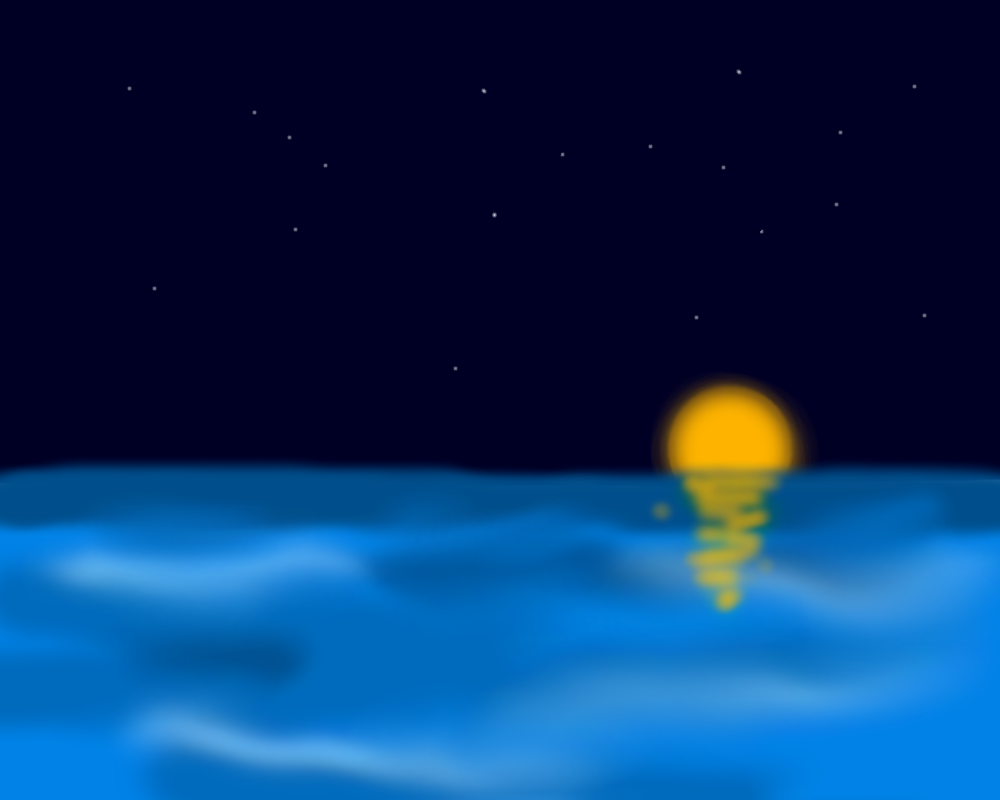
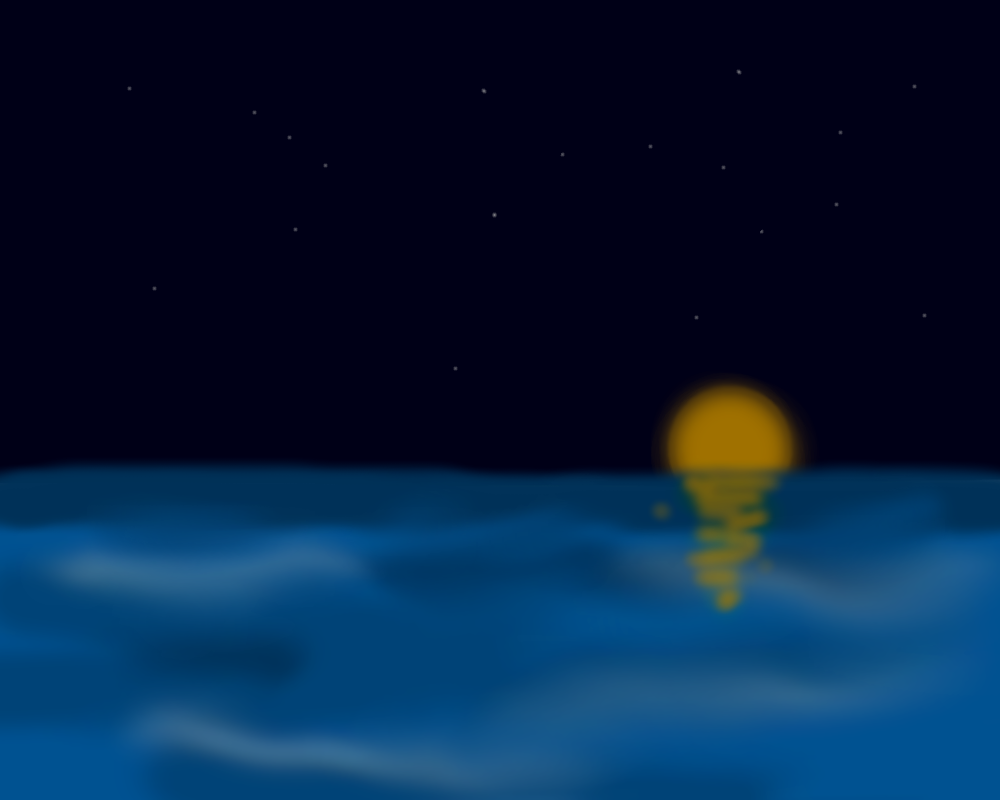
added blind level

diff --git a/start.js b/start.js
@@ -8,7 +8,7 @@ var j = 0;
 var keys = [];
 var metampsy = 0;
 var imgFond = new Image();
-imgFond.src = "images/fond4.png";
+imgFond.src = "images/fond3.png";
 var imgFeu = new Image();
 imgFeu.src = "images/feu.png";
 var imgBalle = new Image();
@@ -814,7 +814,7 @@ function draw() {
     );
     niveau.forEach(
         function(c) {
-            ctx.fillStyle = "rgb(100,0,0)";
+            ctx.fillStyle = "rgb(104,91,12)";
             ctx.fillRect(c[0] - X,c[1] - Y,c[2],c[3]);
         }
     );
@@ -907,12 +907,12 @@ function selection(choixNiveau){
     j = 0;
     element = {"feu":[],"balle":[],"panneau":[],"choixN":[]};
     if (choixNiveau == "select"){
-        niveau = [[0,20,500,ep],[200,320,500,ep],[700,320,1000,ep],[0,620,500,ep]];
+        niveau = [[0,20,500,ep],[200,320,1500,ep],[0,620,500,ep],[200,920,500,ep]];
 
         element.balle = [];
         balles = 0;
-        element.panneau = [[130,20,"Monde 1 : difficile"],[640,320,"Monde 2 : adresse"],[130,620,"Monde 3 : moyennement dur"]];
-        element.choixN = [[300,20,"1-1"],[450,20,"1-2"],[450,320,"2-1"],[300,320,"2-2"],[900,320,"2-3"],[1050,320,"2-4"],[750,320,"2-5"],[1200,320,"2-6"],[1350,320,"2-7"],[300,620,"3-1"],[450,620,"3-2"]];
+        element.panneau = [[130,20,"Monde 1 : difficile"],[640,320,"Monde 2 : adresse"],[130,620,"Monde 3 : moyennement dur"],[640,920,"Monde 4 : a l'aveugle"]];
+        element.choixN = [[300,20,"1-1"],[450,20,"1-2"],[450,320,"2-1"],[300,320,"2-2"],[900,320,"2-3"],[1050,320,"2-4"],[750,320,"2-5"],[1200,320,"2-6"],[1350,320,"2-7"],[300,620,"3-1"],[450,620,"3-2"],[450,920,"aveugle"]];
 
         decor = [{"x":0,"y":20,"type":new Barre,"frame":0,"img":new Image()},
                  {"x":200,"y":320,"type":new Barre,"img":new Image()},
@@ -1099,7 +1099,8 @@ function selection(choixNiveau){
         decor = [];
 
         actor = [{"x":50,"y":0,"vx":0,"vy":0,"sens":1,"g":0,"frame":0,"saut":0,"moves":new MageElectro},
-                 {"x":500,"y":0,"vx":0,"vy":0,"sens":1,"g":0,"frame":0,"saut":0,"moves":new Jumper}];
+                 {"x":150,"y":0,"vx":0,"vy":0,"sens":1,"g":0,"frame":0,"saut":0,"moves":new Jumper},
+                 {"x":750,"y":0,"vx":0,"vy":0,"sens":1,"g":0,"frame":0,"saut":0,"moves":new Jumper}];
         victoire = [0,0,0,0,0,0];
         nVictoire = 180;
         chute = [2000,"2-7"];
@@ -1204,7 +1205,6 @@ function selection(choixNiveau){
         nVictoire = 1;
         chute = [2000,"3-1"];
     }
-
     else if (choixNiveau == "3-2"){
         niveau = [[600,0,500,50],[1050,0,50,500],[600,0,50,500],[600,450,500,50],[0,150,500,50],[0,450,500,50],[0,750,500,50],[1150,450,50,50],[1400,450,100,50]];
 
@@ -1223,6 +1223,26 @@ function selection(choixNiveau){
         victoire = [0,0,0,0,0,0];
         nVictoire = 1;
         chute = [2000,"3-2"];
+    }
+
+    else if (choixNiveau == "aveugle"){
+        niveau = [[0,0,500,50],[0,300,500,50],[0,0,50,300],[450,0,50,300],[600,300,500,50],[1300,0,50,50],[1400,300,500,50]];
+
+        element.balle = [[400,-50],[400,250],[1000,250]];
+        balles = 0;
+        element.panneau = [];
+        element.choixN = [[1700,300,"select"]];
+
+        decor = [];
+
+        actor = [{"x":50,"y":0,"vx":0,"vy":0,"sens":1,"g":0,"frame":0,"saut":0,"moves":new MageFeu,"img":new Image()},
+                 {"x":100,"y":100,"vx":0,"vy":0,"sens":1,"g":0,"frame":0,"saut":0,"moves":new Boule,"img":new Image()},
+                 {"x":1325,"y":-10,"vx":0,"vy":0,"sens":1,"g":0,"frame":0,"saut":0,"moves":new Jumper,"img":new Image()},
+                 {"x":200,"y":250,"vx":0,"vy":0,"sens":1,"frame":0,"g":0,"saut":0,"moves":new Interrupteur,"img":new Image(),"plate":[500,0,200,ep]},
+                 {"x":1500,"y":50,"vx":0,"vy":0,"sens":1,"g":0,"frame":0,"saut":0,"moves":new Champi,"img":new Image()}];
+        victoire = [0,0,0,0,0,0];
+        nVictoire = 1;
+        chute = [2000,"aveugle"];
     }
     decor.forEach(
         function(c) {

diff --git a/index.html b/index.html
@@ -1,6 +1,6 @@
 <html>
     <head>
-        <title>Metempsychose 0.4</title>
+        <title>Metempsychose 0.5</title>
         <meta http-equiv="Content-Type" content="text/html; charset=UTF-8"/>
         <script src="start.js"></script>
         <script src="alert.js"></script>
